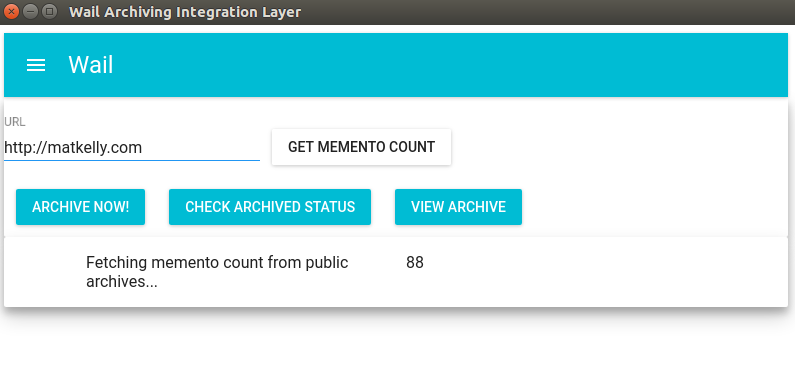
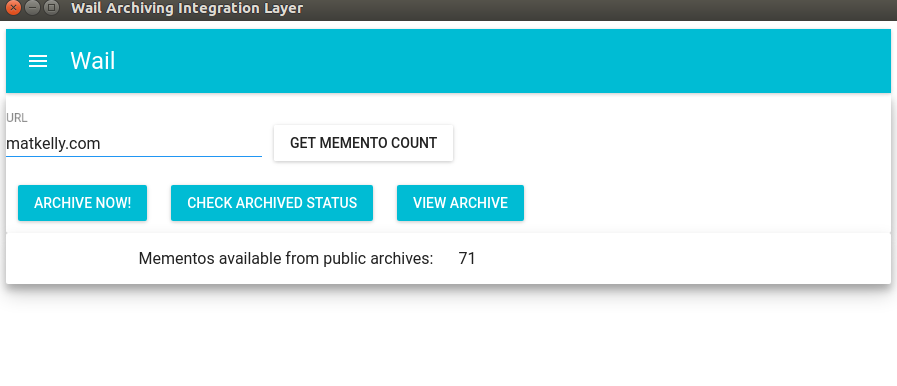
Updated fetching and got memento messages

diff --git a/src/js/componets/basic/message-panel.js b/src/js/componets/basic/message-panel.js
@@ -9,26 +9,48 @@ export default class MessagePanel extends Component {
       super(props, context)
        this.updateMementoCount = this.updateMementoCount.bind(this)
        this.urlUpdated =  this.urlUpdated.bind(this)
-       this.state = {mementoCount: -1}
+       this.state = {
+           mementoCount: -1,
+           message: this.fetchingMementoMsg()
+       }
+
+
 
    }
 
+    fetchingMementoMsg(){
+        return (
+            <p>
+                Fetching memento count
+                from public archives...
+            </p>
+        )
+    }
+
+    gotMementoMsg(){
+        return (
+            <p>
+                Mementos available from public archives:
+            </p>
+        )
+    }
+
     updateMementoCount(){
-        this.setState({mementoCount: UrlStore.getMementoCount()})
+        this.setState({mementoCount: UrlStore.getMementoCount(), message: this.gotMementoMsg()})
     }
 
     urlUpdated(){
-        this.setState({mementoCount: -1})
+        this.setState({mementoCount: -1,message: this.fetchingMementoMsg()})
     }
 
     componentDidMount() {
         UrlStore.on('memento-count-updated',this.updateMementoCount)
-        UrlStore.on('url-updated',this.urlUpdated)
+        UrlStore.on('memento-count-fetch',this.urlUpdated)
     }
 
     componentWillUnmount() {
         UrlStore.removeListener('memento-count-updated',this.updateMementoCount)
-        UrlStore.removeListener('url-updated',this.urlUpdated)
+        UrlStore.removeListener('memento-count-fetch',this.urlUpdated)
     }
 
    render() {
@@ -38,10 +60,7 @@ export default class MessagePanel extends Component {
                 <Grid>
                     <Row>
                         <Column  width="1/2">
-                            <p>
-                                Fetching memento count
-                                from public archives...
-                            </p>
+                            {this.state.message}
                         </Column>
                         <Column  width="1/2">
                             {progressOrCount}

diff --git a/src/js/stores/urlStore.js b/src/js/stores/urlStore.js
@@ -37,7 +37,7 @@ class urlStore extends EventEmitter {
          }
          case EventTypes.GET_MEMENTO_COUNT:{
             urlActions.askMemgator(this.urlMemento.url)
-
+            this.emit('memento-count-fetch')
             break
 
          }
